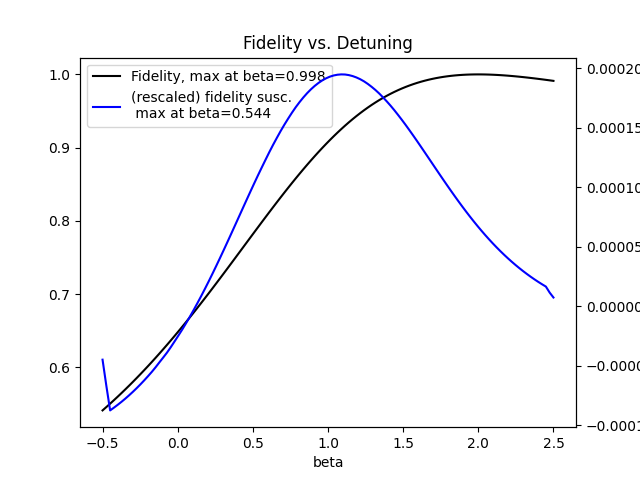
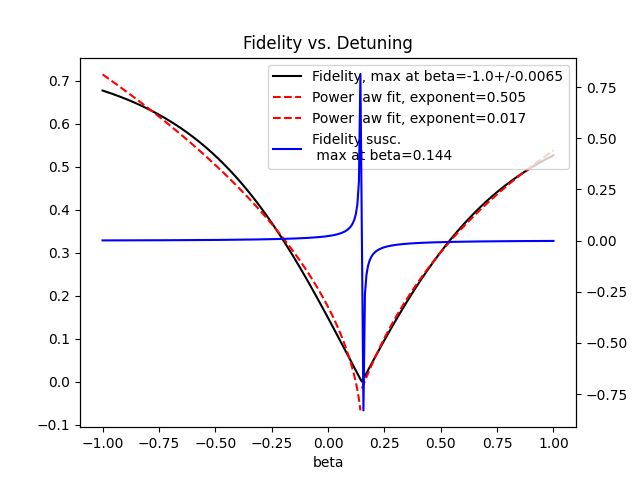
fixed susc, tried fitting order params

diff --git a/magnetic_sensor.py b/magnetic_sensor.py
@@ -5,10 +5,14 @@ import multiprocessing as mp
 from utils import TLS
 
 omega_0 = 2
-omega = 3
+omega = 2.15
+
+import scipy.optimize as opt
+def power_law(x, a, b, c):
+    return a * (x - delta)**b + c
 
 def parallel_simulation(beta):
-    times = np.linspace(-10,10,100)
+    times = np.linspace(-12,12,200)
     system = TLS('sech', beta=beta, delta=omega_0 - omega, t_points=times)
     system.evolve()
     fidelity = system.final_fidelity
@@ -18,10 +22,11 @@ def parallel_simulation(beta):
     
 
 if __name__ == '__main__':
-    min_beta = -0.5
-    max_beta = 2.5
-    num_beta_steps = 120
+    min_beta = -2
+    max_beta = 2
+    num_beta_steps = 300
     betas = np.linspace(min_beta, max_beta, num_beta_steps)
+    beta_err = np.abs(betas[1] - betas[0])
 
     # Parallelize the simulation
     pool = mp.Pool()
@@ -30,25 +35,45 @@ if __name__ == '__main__':
     pool.join()
 
     fidelity_array = np.array(fidelity_list)
+    # calculate critical exponent by fitting a power law near the minimum fidelity (0):
+    # which should occur at the detuning, delta = omega_0 - omega
+    delta = omega_0 - omega
+    # find the index of the minimum fidelity:
+    min_fid_index = np.argmin(fidelity_array)
+    right_fidelity_array = fidelity_array[min_fid_index:]
+    right_betas = betas[min_fid_index:]
+    # fit a power law:
+    right_popt, _ = opt.curve_fit(power_law, right_betas/2, right_fidelity_array)
+    print(right_popt[1])
+    # now for left side:
+    left_fidelity_array = fidelity_array[:min_fid_index]
+    left_betas = betas[:min_fid_index]
+    # fit a power law:
+    left_popt, _ = opt.curve_fit(power_law, -left_betas/2, left_fidelity_array)
+    print(left_popt[1])
+    
     # plt.figure()
     # One plot with two yaxes:
     fig, ax1 = plt.subplots()
 
     max_beta = betas[np.argmax(fidelity_array)]
     
-    ax1.plot(betas, fidelity_array, 'k', label=f'Fidelity, max at beta={round(max_beta,3)/(2)}')
+    ax1.plot(betas/2, fidelity_array, 'k', label=f'Fidelity, max at beta={round(max_beta,3)/(2)}+/-{round(beta_err,3)/(2)}')
+    # plot the fit:
+    ax1.plot(left_betas/2, power_law(-left_betas/2, *left_popt), 'r--', label=f'Power law fit, exponent={round(left_popt[1],3)}')
+    ax1.plot(right_betas/2, power_law(right_betas/2, *right_popt), 'r--', label=f'Power law fit, exponent={round(right_popt[1],3)}')
     # Also plot second derivative of log fidelity:
     log_fid = np.log(fidelity_array)
-    fid_susc = -np.gradient(np.gradient(log_fid))
+    fid_susc = -np.gradient(log_fid, 2)
     max_beta = betas[np.argmax(fid_susc)]
     # new yaxis:
     ax2 = ax1.twinx()
-    ax2.plot(betas, fid_susc, 'b', label=f'(rescaled) fidelity susc.\n max at beta={round(max_beta,3)/(2)}')
+    ax2.plot(betas/2, fid_susc, 'b', label=f'Fidelity susc.\n max at beta={round(max_beta,3)/(2)}')
 
     # aggregate the two legends:
     lines1, labels1 = ax1.get_legend_handles_labels()
     lines2, labels2 = ax2.get_legend_handles_labels()
-    ax1.legend(lines1 + lines2, labels1 + labels2, loc='upper left')
+    ax1.legend(lines1 + lines2, labels1 + labels2, loc='best')
     ax1.set_xlabel('beta')
     plt.title('Fidelity vs. Detuning')
     plt.savefig('figures/magnetic_sensor.png')

diff --git a/smart_magnetometer.py b/smart_magnetometer.py
@@ -1,0 +1,27 @@
+import numpy as np
+import qutip as qt
+import matplotlib.pyplot as plt
+import multiprocessing as mp
+from utils import TLS
+
+omega_0 = 2
+omega = 2.4
+
+def parallel_simulation(beta):
+    times = np.linspace(-12,12,200)
+    system = TLS('sech', beta=beta, delta=omega_0 - omega, t_points=times)
+    system.evolve()
+    fidelity = system.final_fidelity
+    # delete system to free memory
+    del system
+    return fidelity
+    
+# A smarter way to sample beta values would be to
+# sample more densely around the maximum fidelity
+# and less densely elsewhere.
+
+def smart_beta_sampling(fidelity_list, betas, beta_err):
+    # given the known fidelity list and the betas,
+    # guess the location of the maximum fidelity:
+
+    max_beta = betas[np.argmax(fidelity_list)]

diff --git a/utils.py b/utils.py
@@ -90,7 +90,7 @@ class TLS:
         #                     options=qt.Options(store_states=True))
         self.states = result.states
         self.expect = result.expect
-        self.final_fidelity = qt.fidelity(result.states[-1], psi_1)
+        self.final_fidelity = qt.fidelity(result.states[-1], psi_0)
         self.evolved = True
 
         return 
